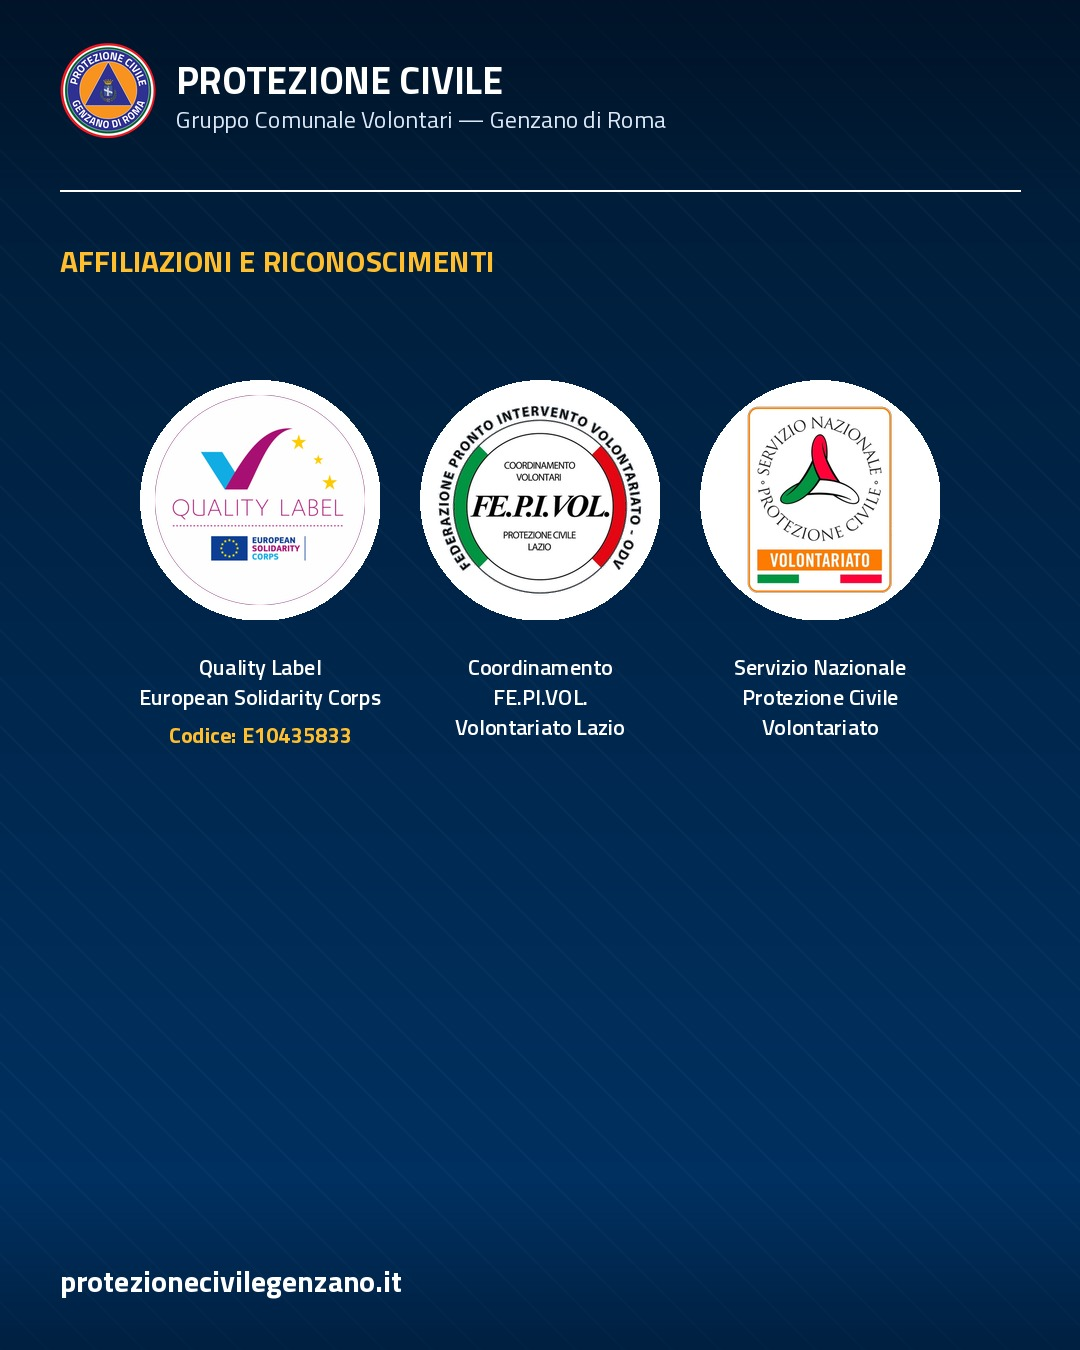
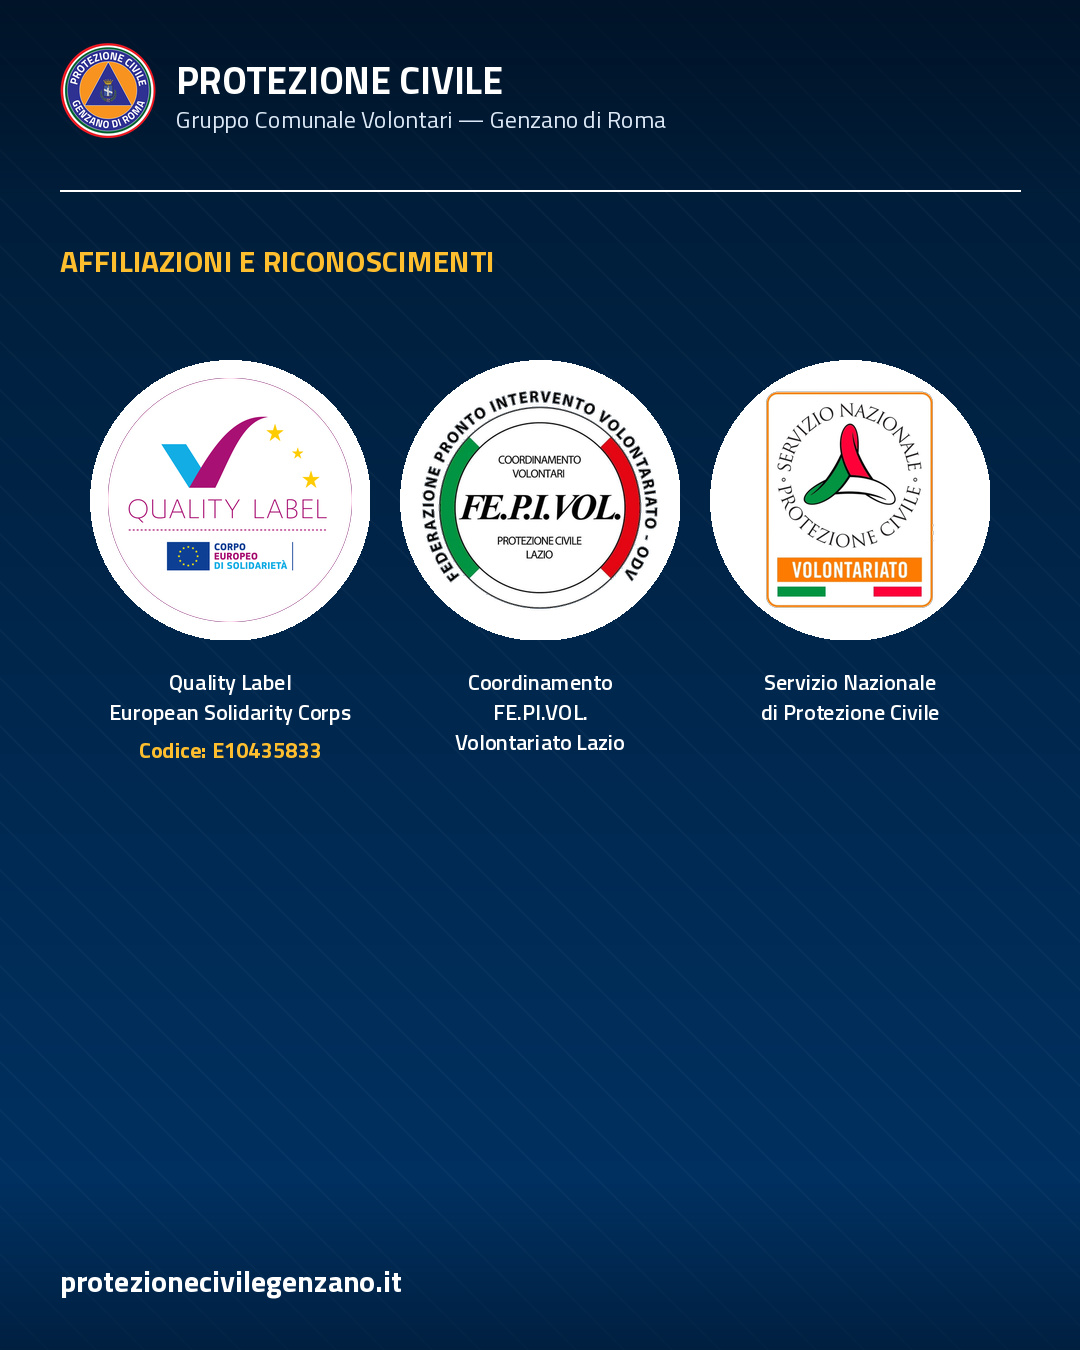
Loghi: regola "esattamente 4, mai doppioni" + URL diretti per AI esterne
VINCOLO COGENTE CODIFICATO (CLAUDE.md + rule 02 + parte-03 + parte-13):
ogni grafica istituzionale del Gruppo deve avere ESATTAMENTE 4 LOGHI,
mai doppioni:

  (1) PC Genzano       — firma in header/banner
  (2) Quality Label ESC + codice E10435833 — affiliazione (Reg. UE 2021/888)
  (3) Coordinamento FE.PI.VOL. — affiliazione
  (4) SNPC Volontariato — affiliazione

Divieti: mai mescolare PC Genzano tra le affiliazioni (doppione), mai
inserire un 5° logo (PC Lazio, Comune, VVF, INGV, Croce Rossa, ANPAS,
ecc. — vivono nei contenuti testuali o nel chrome footer del sito, mai
nelle grafiche del Gruppo), mai logo ESC senza codice E10435833.

CAMBIAMENTI PUNTUALI:

1. CLAUDE.md § "Affiliazioni e riconoscimenti europei": estesa la
   sezione con "Composizione standard 4 loghi" + divieti espliciti +
   nota AI esterne con pattern brief da incollare.

2. .claude/rules/02-content-design-pa.md § "Regola Quality Label ESC":
   tabella 4 loghi + URL diretti + esempio brief per AI esterne.

3. manuale/parte-03 § "Loghi affiliazione": aggiornato da "2 loghi" a
   "4 loghi totali, mai doppioni" con vincoli espliciti.

4. manuale/parte-13 § "Slide finale Affiliazioni": composizione cogente
   4 loghi per ogni slide social. Rimossa "Volontariato" dalla terza
   riga dell'etichetta SNPC (era duplicata con la parola dentro al
   logo stesso).

5. content/area-download/_index.md § "Loghi e stemmi": riorganizzata.
   Aggiunta nuova sezione "I 4 loghi standard per ogni grafica" con URL
[…]

Changed region(s): [[0.0611, 0.2489, 0.9167, 0.56], [0.0611, 0.1867, 0.4583, 0.2178], [0.0611, 0.0311, 0.1528, 0.0933]]

diff --git a/static/formazione/kit-calamita-shared/print.css b/static/formazione/kit-calamita-shared/print.css
@@ -145,42 +145,47 @@ html, body {
 /* ── Footer ── */
 .scheda-footer {
   margin-top: auto;
-  padding-top: 6mm;
+  padding-top: 9mm;       /* +50% spazio dal corpo della scheda */
+  padding-bottom: 4mm;    /* aria sopra la banda affiliazioni */
   border-top: 1px solid #ccc;
-  font-size: 8pt;
-  color: #666;
+  font-size: 8.5pt;       /* leggermente più grande per leggibilità */
+  color: #555;            /* contrasto migliorato (era #666) */
   display: flex;
   justify-content: space-between;
-  align-items: center;
+  align-items: flex-start;/* allineamento top per testi multi-riga */
+  gap: 6mm;               /* spazio orizzontale tra i 3 blocchi */
+  line-height: 1.45;
+}
+.scheda-footer > span {
+  flex: 0 0 auto;
 }
 .scheda-footer .fonti {
-  flex: 1;
-  font-size: 7.5pt;
-  line-height: 1.4;
+  flex: 1 1 auto;
+  font-size: 7.8pt;
+  line-height: 1.5;
+  text-align: center;     /* centrato per equilibrio visivo dei 3 blocchi */
+  padding: 0 2mm;
+}
+/* Su stampa il footer è in fondo alla pagina: un filo di aria in più */
+@media print {
+  .scheda-footer { padding-top: 8mm; padding-bottom: 3mm; gap: 5mm; }
 }
 
 /* ── Banda affiliazioni: Quality Label ESC (cod. E10435833 obbligatorio per
-   Reg. UE 2021/888) + SNPC Volontariato. Si applica a tutte le schede A4
+   Reg. UE 2021/888) + FEPIVOL + SNPC. Si applica a tutte le schede A4
    tramite ::after sul .scheda — zero modifiche all'HTML delle schede esistenti.
-   In stampa la banda compare a piè pagina; a schermo è nascosta per non
-   sovraccaricare il layout di consultazione. ─ */
+   Visibile sia a schermo sia in stampa. ─ */
 .scheda::after {
-  content: "Quality Label European Solidarity Corps — Codice E10435833 · Servizio Nazionale Protezione Civile — Volontariato";
-  display: none;
-}
-@media print {
-  .scheda::after {
-    content: "";
-    display: block;
-    height: 14mm;
-    background: url("../../images/footer-print-affiliazioni.png") no-repeat center;
-    background-size: contain;
-    margin-top: 3mm;
-    padding-top: 2mm;
-    border-top: 0.3mm solid #ddd;
-    -webkit-print-color-adjust: exact;
-    print-color-adjust: exact;
-  }
+  content: "";
+  display: block;
+  height: 14mm;
+  background: url("../../images/footer-print-affiliazioni.png") no-repeat center;
+  background-size: contain;
+  margin-top: 3mm;
+  padding-top: 2mm;
+  border-top: 0.3mm solid #ddd;
+  -webkit-print-color-adjust: exact;
+  print-color-adjust: exact;
 }
 
 /* ── Componenti riusabili ── */
@@ -307,8 +312,8 @@ ul.elenco-pratico li::before {
     line-height: 1.3;
   }
   .scheda-attivita { gap: 2.5mm; }
-  .scheda-footer { padding-top: 3mm; font-size: 7pt; page-break-inside: avoid; }
-  .scheda-footer .fonti { font-size: 6.5pt; line-height: 1.3; }
+  .scheda-footer { padding-top: 7mm; padding-bottom: 3mm; gap: 5mm; font-size: 7.5pt; page-break-inside: avoid; }
+  .scheda-footer .fonti { font-size: 7pt; line-height: 1.4; }
   /* SVG/immagini al cuore dell'attività: limite di sicurezza A4 */
   .scheda-attivita > svg,
   .scheda-attivita > figure > svg,

diff --git a/scripts/genera-immagini-social.py b/scripts/genera-immagini-social.py
@@ -425,25 +425,27 @@ def crea_slide_affiliazioni(out_path: Path,
     d.text((60, 238), "AFFILIAZIONI E RICONOSCIMENTI",
            font=ImageFont.truetype(str(find_font("Bold")), 30), fill=ACCENT)
 
-    # 3 loghi affiancati in card bianche rotonde
+    # 3 loghi affiancati in card bianche rotonde — ESC usa la versione HI-RES
+    # 4016x4016 ufficiale UE per massima nitidezza (cerchio Quality Label).
     repo_root = Path(__file__).resolve().parent.parent
     loghi = [
-        (repo_root / "static" / "images" / "quality-label-esc.png",
+        (repo_root / "static" / "images" / "logo-esc-quality-label-it.png",
          ["Quality Label", "European Solidarity Corps"],
          "Codice: E10435833"),
         (repo_root / "static" / "images" / "logo-fepivol.png",
          ["Coordinamento", "FE.PI.VOL.", "Volontariato Lazio"],
          None),
         (repo_root / "static" / "images" / "logo-snpc-volontariato.png",
-         ["Servizio Nazionale", "Protezione Civile", "Volontariato"],
+         ["Servizio Nazionale", "di Protezione Civile"],
          None),
     ]
 
-    card_size = 240
-    gap = 40
+    # Card più grandi per maggiore nitidezza visiva post-compressione JPEG
+    card_size = 280
+    gap = 30
     total_w = card_size * 3 + gap * 2
     base_x = (W - total_w) // 2
-    base_y = 380
+    base_y = 360
 
     for idx, (lp, _, _) in enumerate(loghi):
         x = base_x + idx * (card_size + gap)
@@ -452,7 +454,8 @@ def crea_slide_affiliazioni(out_path: Path,
         cd.ellipse([(0, 0), (card_size, card_size)], fill=WHITE)
         if lp.exists():
             li = Image.open(lp).convert("RGBA")
-            li.thumbnail((card_size - 30, card_size - 30), Image.LANCZOS)
+            # Scaling LANCZOS sulla risoluzione originale (massima nitidezza)
+            li.thumbnail((card_size - 36, card_size - 36), Image.LANCZOS)
             lx = (card_size - li.width) // 2
             ly = (card_size - li.height) // 2
             card.paste(li, (lx, ly), li)
@@ -461,7 +464,7 @@ def crea_slide_affiliazioni(out_path: Path,
     # Etichette sotto ogni logo
     lab_ft = ImageFont.truetype(str(find_font("Semibold")), 22)
     code_ft = ImageFont.truetype(str(find_font("Bold")), 22)
-    labels_y = base_y + card_size + 30
+    labels_y = base_y + card_size + 25
 
     for idx, (_, lines, code) in enumerate(loghi):
         cx = base_x + idx * (card_size + gap) + card_size // 2
@@ -480,7 +483,8 @@ def crea_slide_affiliazioni(out_path: Path,
            font=ImageFont.truetype(str(find_font("Bold")), 30), fill=WHITE)
 
     out_path.parent.mkdir(parents=True, exist_ok=True)
-    base.convert("RGB").save(out_path, "JPEG", quality=92, optimize=True, progressive=True)
+    # JPEG quality 95 (era 92) per ridurre artifact su dettagli fini dei loghi
+    base.convert("RGB").save(out_path, "JPEG", quality=95, optimize=True, progressive=True, subsampling=0)
     return out_path
 
 

diff --git a/content/area-download/_index.md b/content/area-download/_index.md
@@ -145,9 +145,9 @@ Materiali informativi della campagna nazionale [Io Non Rischio](https://www.iono
 |---|---|---|
 | [Atlante 2025 — Territori in trasformazione](https://www.protezionecivilegenzano.it/documenti/download/ATLANTE-2025-TERRITORI-IN-TRASFORMAZIONE-12-05.pdf) | Rapporto nazionale sui territori e i rischi ambientali | PDF · 118,7 MB |
 
-## Loghi e stemmi del Gruppo
+## Loghi ufficiali del Gruppo e delle affiliazioni
 
-I loghi e gli stemmi ufficiali del Gruppo sono disponibili al download per **personalizzazioni di abbigliamento, accessori e attrezzature** (divise, magliette, cappellini, borse, mezzi, gadget istituzionali, materiale informativo).
+I 4 loghi ufficiali per le grafiche del Gruppo (cover articoli, slide social, schede A4, locandine, infografiche). **Ogni grafica istituzionale deve riportare ESATTAMENTE questi 4 loghi, mai doppioni**: la firma PC Genzano in alto + le 3 affiliazioni (Quality Label ESC + codice E10435833, Coordinamento FEPIVOL, SNPC Volontariato) in basso.
 
 <div class="card border-warning bg-warning bg-opacity-10 mb-3">
 <div class="card-body p-3 small">
@@ -156,12 +156,35 @@ I loghi e gli stemmi ufficiali del Gruppo sono disponibili al download per **per
 </div>
 </div>
 
+### I 4 loghi standard per ogni grafica
+
+| # | Logo | URL diretto (pronto per AI esterne / Canva / stampa) | Formato |
+|---|---|---|---|
+| 1 | **PC Genzano** (firma) | <https://www.protezionecivilegenzano.it/images/logo-pc-genzano.webp> | WebP |
+| 1 | **PC Genzano hi-res** (stampa, gadget, mezzi) | <https://www.protezionecivilegenzano.it/images/logo-pc-genzano-hires.png> | PNG hi-res |
+| 2 | **Quality Label ESC** + codice E10435833 — web | <https://www.protezionecivilegenzano.it/images/quality-label-esc.png> | PNG · 400×400 |
+| 2 | **Quality Label ESC** — versione hi-res ufficiale UE | <https://www.protezionecivilegenzano.it/images/logo-esc-quality-label-it.png> | PNG · 4016×4016 |
+| 2 | **Quality Label ESC** — pacchetto ufficiale UE (PDF vettoriale + PNG) | <https://www.protezionecivilegenzano.it/manuali/loghi-esc-italiano-pacchetto-ufficiale.zip> | ZIP |
+| 3 | **Coordinamento FE.PI.VOL.** | <https://www.protezionecivilegenzano.it/images/logo-fepivol.png> | PNG · 400×400 |
+| 4 | **SNPC Volontariato** | <https://www.protezionecivilegenzano.it/images/logo-snpc-volontariato.png> | PNG · 400×482 |
+
+<div class="card border-primary bg-primary bg-opacity-10 mb-3">
+<div class="card-body p-3 small">
+<i class="bi bi-robot me-1" aria-hidden="true"></i>
+<strong>Per le AI esterne</strong> (ChatGPT, Gemini, Midjourney, Canva, Adobe Express, DALL-E, ecc.): gli URL sopra sono <strong>pubblici e diretti</strong>, scaricabili dalle AI con capacità web/image-fetch. Quando dai un brief a un'AI esterna per generare una grafica del Gruppo, includi <strong>ESATTAMENTE QUESTI 4 LOGHI</strong> e specifica:
+<br><br>
+<em>«La grafica deve riportare ESATTAMENTE 4 loghi: (1) PC Genzano in alto come firma; (2) Quality Label ESC + codice E10435833 accanto (mai disgiunti, Reg. UE 2021/888); (3) Coordinamento FE.PI.VOL.; (4) SNPC Volontariato — questi 3 nel footer come blocco affiliazioni. Mai doppioni. Mai 5° logo (Comune, PC Lazio, VVF, INGV, ecc.). Mai logo ESC senza codice E10435833.»</em>
+</div>
+</div>
+
+### Varianti storiche e composizioni del logo PC Genzano
+
 | Logo / stemma | Descrizione | Formato |
 |---|---|---|
 | [Stemma circolare classico PC Genzano](/manuali/loghi/stemma-pc-genzano-circolare-classico.png) | Stemma istituzionale del Gruppo Comunale: cerchio con scritta "Protezione Civile — Genzano di Roma" e stemma del Comune al centro. Sfondo trasparente, alta risoluzione. | PNG · 181 KB |
 | [Stemma circolare con trinacria PC Genzano](/manuali/loghi/stemma-pc-genzano-circolare-trinacria.jpg) | Variante con il simbolo nazionale della Protezione Civile (trinacria tricolore) al centro. | JPG · 89 KB |
 | [Logo PC Genzano + stemma del Comune](/manuali/loghi/logo-pc-genzano-volontariato-comune.jpg) | Logo composito verticale: stemma del Comune di Genzano di Roma + simbolo nazionale Protezione Civile, fascia "Volontariato" e dicitura completa "Gruppo Comunale Volontari di Protezione Civile — Genzano di Roma". | JPG · 122 KB |
-| [Logo Servizio Nazionale di Protezione Civile — Volontariato](/manuali/loghi/logo-dpc-volontariato-nazionale.jpg) | Logo ufficiale del Servizio Nazionale di Protezione Civile, settore Volontariato. Per uso istituzionale dei volontari del Sistema. | JPG · 75 KB |
+| [Logo Servizio Nazionale di Protezione Civile — Volontariato (alta risoluzione)](/manuali/loghi/logo-dpc-volontariato-nazionale.jpg) | Versione alta risoluzione del logo SNPC, ufficiale del Servizio Nazionale di Protezione Civile, settore Volontariato. Per stampa professionale. | JPG · 75 KB |
 
 ## Locandine ufficiali
 

diff --git a/.claude/rules/02-content-design-pa.md b/.claude/rules/02-content-design-pa.md
@@ -45,7 +45,31 @@ Ogni testo deve aiutare l'utente a capire cosa sta leggendo, cosa deve fare e do
 **Quando crei una nuova grafica/slide che ha un blocco affiliazioni**, ricontrolla sempre questi 3 punti:
 1. Il logo ESC è accompagnato dal codice `E10435833` ben leggibile? → se no, non è conforme al Reg. UE 2021/888.
 2. Hai aggiunto il logo PC Genzano tra gli "affiliati"? → se sì, sbagliato: rimuovilo, non è un'affiliazione esterna.
-3. Hai aggiunto i 2 loghi al banner cover di un articolo? → se sì, sbagliato: il banner resta col solo titolo (vedi CLAUDE.md § "Affiliazioni e riconoscimenti europei").
+3. Hai aggiunto i 3 loghi al banner cover di un articolo? → se sì, sbagliato: il banner resta col solo titolo (vedi CLAUDE.md § "Affiliazioni e riconoscimenti europei").
+
+### Composizione standard di ogni nuova grafica = ESATTAMENTE 4 LOGHI, MAI DOPPIONI
+
+🔴 **Vincolo cogente: max 4 loghi totali per grafica, mai doppioni.** Vale per **tutte le grafiche istituzionali del Gruppo** prodotte in proprio o con strumenti esterni: cover articolo, slide social (carosello/post/storia), schede A4 stampabili (kit calamità, casi studio), locandine, deck di presentazione, infografiche, manifesti.
+
+| # | Logo | Dove | File |
+|---|---|---|---|
+| 1 | **PC Genzano** (firma del Gruppo) | header/banner/intestazione | `/images/logo-pc-genzano.webp` (o `.png`/`-hires.png`) |
+| 2 | **Quality Label ESC + codice `E10435833`** | footer/blocco affiliazioni | `/images/quality-label-esc.png` (web) o `/images/logo-esc-quality-label-it.png` (hi-res stampa) |
+| 3 | **Coordinamento FE.PI.VOL.** | footer/blocco affiliazioni | `/images/logo-fepivol.png` |
+| 4 | **SNPC Volontariato** | footer/blocco affiliazioni | `/images/logo-snpc-volontariato.png` |
+
+**Regole di composizione, vietato deviare:**
+
+- La **firma (1) è separata** dalle affiliazioni (2-4): mai mescolare PC Genzano tra le card affiliazione (sarebbe doppione — è già la firma istituzionale visibile come header/banner).
+- **Mai inserire lo stesso logo due volte** nella stessa grafica (es. PC Genzano nell'header E ancora in una card affiliazione = doppione, vietato).
+- **Mai inserire un 5° logo** nelle grafiche del Gruppo (es. PC Lazio, Comune di Genzano, Croce Rossa, ANPAS, VVF, INGV, ecc.). Quei loghi sono di **enti coordinatori/operatori del Sistema Nazionale di PC** e vanno citati nei **contenuti testuali** o nel **footer site-wide del sito** (chrome del portale), MAI dentro la grafica istituzionale del Gruppo.
+- **Vincolo cogente Quality Label:** il logo ESC va SEMPRE con il codice `E10435833` accanto, mai disgiunti (Reg. UE 2021/888). Le altre 3 affiliazioni non hanno codici obbligatori.
+
+**Vale anche per grafiche realizzate con AI esterne** (ChatGPT, Gemini, Midjourney, Canva, Adobe Express, DALL-E, Stable Diffusion, ecc.): quando dai un brief a un'AI esterna per generare una locandina/infografica/banner/post per il Gruppo, includi sempre nel prompt la regola **"esattamente 4 loghi, mai doppioni"** + fornisci i 4 file ufficiali del repo. Esempio di pattern brief da incollare in coda al prompt AI:
+
+> *Vincolo loghi (cogente): la grafica deve riportare ESATTAMENTE 4 loghi (1) PC Genzano in alto come firma; (2) Quality Label ESC + codice E10435833 accanto, (3) Coordinamento FE.PI.VOL., (4) SNPC Volontariato nel footer come blocco affiliazioni. Mai doppioni. Mai 5° logo. Mai logo ESC senza codice E10435833. File ufficiali: \[allegare i 4 PNG dal repo\].*
+
+Vedi `CONTESTO-AI.md` / `CONTESTO-AI-slim.md` per il prompt completo da incollare alle AI esterne (rigenera con `bash scripts/export-contesto-ai.sh` dopo qualsiasi modifica a CLAUDE.md o `.claude/rules/`).
 
 **Why:** richiesta utente del 27 maggio 2026 + verifica retroattiva che footer Hugo + site-chrome.js già hanno il blocco dal 18 maggio. La regola codifica il vincolo legale UE per impedire grafiche future che mostrino il logo Quality Label senza codice (sarebbero non conformi al Reg. UE 2021/888).
 

diff --git a/CLAUDE.md b/CLAUDE.md
@@ -163,7 +163,24 @@ Articoli operativi: includi un **disclaimer normativo** con link alla [Circolare
 - **Mai batch retroattivo** sulle ~577 immagini esistenti per aggiungere i loghi. La ricompressione WebP degrada la qualità senza valore aggiunto (i loghi sono già nel footer di ogni pagina che le mostra).
 - **Mai modificare i pittogrammi ISO 7010 / ARASAAC** per aggiungere loghi: violerebbe le licenze d'uso terze.
 
-**Cosa fare in nuove grafiche/slide future:** se la grafica include un blocco "affiliazioni / riconoscimenti", usare **sempre** i 2 loghi insieme + codice `E10435833` ben leggibile accanto al Quality Label. Mai logo ESC senza codice. Mai aggiungere PC Genzano tra gli "affiliati" (è la firma).
+**Cosa fare in nuove grafiche/slide future:** se la grafica include un blocco "affiliazioni / riconoscimenti", usare **sempre** i 3 loghi affiliazione insieme + codice `E10435833` ben leggibile accanto al Quality Label. Mai logo ESC senza codice. Mai aggiungere PC Genzano tra gli "affiliati" (è la firma).
+
+**🔴 Composizione standard di ogni nuova grafica istituzionale = ESATTAMENTE 4 LOGHI, MAI DOPPIONI:**
+
+1. **Firma PC Genzano** (logo del Gruppo) — nell'**header/banner/intestazione** della grafica (cover articoli, header schede A4, barra brand top slide social, prima pagina deck). Identità visiva del Gruppo.
+2. **Quality Label ESC + codice E10435833** — nel **footer/blocco affiliazioni** della grafica. Mai logo nudo (vincolo cogente Reg. UE 2021/888).
+3. **Coordinamento FEPIVOL** — nel **footer/blocco affiliazioni** insieme agli altri 2.
+4. **SNPC Volontariato** — nel **footer/blocco affiliazioni** insieme agli altri 2.
+
+**Regole di composizione, vietato deviare:**
+
+- La firma (1) è sempre **separata** dalle affiliazioni (2-4): mai mescolare PC Genzano tra le card affiliazione (sarebbe doppione).
+- **Mai inserire lo stesso logo due volte** nella stessa grafica.
+- **Mai inserire un 5° logo** (PC Lazio, Comune, Croce Rossa, ANPAS, VVF, INGV, ecc.): quei loghi sono di enti coordinatori/operatori del Sistema PC e vanno citati nei contenuti testuali o nel footer site-wide del sito, MAI nella grafica istituzionale del Gruppo.
+
+**Vale anche per grafiche realizzate con AI esterne** (ChatGPT, Gemini, Midjourney, Canva, Adobe Express, DALL-E, ecc.): includere sempre nel prompt la regola "esattamente 4 loghi, mai doppioni, mai 5° logo, ESC sempre con codice E10435833" + fornire i 4 file dal repo. Specifiche complete + pattern brief da incollare alle AI esterne in `.claude/rules/02-content-design-pa.md § "Composizione standard"` (auto-incluso in `CONTESTO-AI.md` rigenerato).
+
+Le grafiche già aggiornate seguono questo schema: cover articoli, slide social, schede A4, deck, /chi-siamo/ § Affiliazioni. Footer site-wide del sito: blocco chrome del portale (non grafica isolata), ha 4 loghi con PC Lazio come ente territoriale al posto della firma PC Genzano (che è già nel banner top del sito, mai duplicato nel footer).
 
 ---
 

diff --git a/manuale/parte-03-immagini-per-gli-articoli.md b/manuale/parte-03-immagini-per-gli-articoli.md
@@ -731,7 +731,18 @@ Bypassa il check di idempotenza. Da usare solo manualmente, mai dentro script au
 | Pacchetto ufficiale UE (ZIP con PDF vettoriale + PNG) | `static/manuali/loghi-esc-italiano-pacchetto-ufficiale.zip` | Riferimento, manipolazione futura |
 | SNPC Volontariato | `static/images/logo-snpc-volontariato.png` | Sempre abbinato a Quality Label come "affiliazioni del Gruppo" |
 
-**Regola dei "2 loghi affiliazione":** il Gruppo si presenta con **2 loghi affiliazione**, non 3. Quality Label ESC + SNPC Volontariato. Il **logo PC Genzano è la firma istituzionale del Gruppo** (banner, header, fascia blu): NON va contato come affiliazione (sarebbe duplicazione).
+**Regola dei "3 loghi affiliazione + 1 firma" — ESATTAMENTE 4 LOGHI TOTALI, MAI DOPPIONI:**
+
+Ogni grafica istituzionale del Gruppo (cover, slide social, scheda A4, locandina, deck) ha **esattamente 4 loghi**:
+
+1. **PC Genzano** = firma del Gruppo, in header/banner/intestazione
+2. **Quality Label ESC + codice E10435833** = affiliazione, in footer
+3. **Coordinamento FE.PI.VOL.** = affiliazione, in footer
+4. **SNPC Volontariato** = affiliazione, in footer
+
+**Vietato:** mai mescolare PC Genzano tra le affiliazioni (doppione), mai inserire un 5° logo (PC Lazio, Comune, VVF, INGV, ecc. — vivono nei contenuti testuali o nel chrome del sito, non nella grafica del Gruppo), mai logo Quality Label ESC senza codice E10435833 (Reg. UE 2021/888).
+
+Vale anche per grafiche generate con AI esterne (ChatGPT, Gemini, Canva, ecc.): includere sempre la regola nel prompt + fornire i 4 file ufficiali del repo. Specifiche complete in `.claude/rules/02-content-design-pa.md § "Composizione standard"`.
 
 **Dove sono già esposti** (non ri-implementare):
 - Footer site-wide (`themes/flavour-pcgenzano/layouts/partials/footer.html` + `static/app-shared/site-chrome.js`)

diff --git a/manuale/parte-13-social-media-policy-pubblica.md b/manuale/parte-13-social-media-policy-pubblica.md
@@ -277,7 +277,16 @@ Da maggio 2026 ogni carosello Instagram generato automaticamente (e ogni post si
 
 Implementazione: funzione `crea_slide_affiliazioni()` in `scripts/genera-immagini-social.py`. Inserita come ultima slide nel piano del carosello (titolo → citazione → punti → foto → **affiliazioni**). Se il carosello raggiunge il limite Instagram di 10 slide, la slide affiliazioni rimpiazza l'ultima foto (priorità all'esposizione legale).
 
-**Loghi del Gruppo nei post = 2**, non 3: l'identità PC Genzano è già nella **barra brand top** di ogni slide (logo PC + "Protezione Civile / Gruppo Comunale Volontari — Genzano di Roma"). Aggiungerla anche tra le "affiliazioni" sarebbe duplicazione: la regola è 2 loghi affiliazione (ESC + SNPC) + 1 firma istituzionale (PC Genzano).
+**Composizione cogente delle slide social del Gruppo = ESATTAMENTE 4 LOGHI, MAI DOPPIONI:**
+
+Ogni slide social istituzionale (carosello, post singolo, storia) deve mostrare **esattamente 4 loghi**:
+
+1. **PC Genzano** (firma) — nella barra brand top di ogni slide, generata da `_barra_brand()`
+2. **Quality Label ESC + codice E10435833** — nella slide finale "Affiliazioni" (`crea_slide_affiliazioni()`)
+3. **Coordinamento FE.PI.VOL.** — nella stessa slide affiliazioni
+4. **SNPC Volontariato** — nella stessa slide affiliazioni
+
+Mai inserire PC Genzano tra le affiliazioni (sarebbe doppione: è già la firma top). Mai inserire un 5° logo. Mai logo ESC senza codice E10435833.
 
 **Vincolo cogente per future modifiche al generatore**: se modifichi `crea_slide_affiliazioni()`, il codice `E10435833` deve restare **ben leggibile** accanto al logo Quality Label (colore accento giallo `#ffbe2e` su sfondo blu istituzionale per il contrasto WCAG). Mai logo nudo, mai codice nudo.
 
